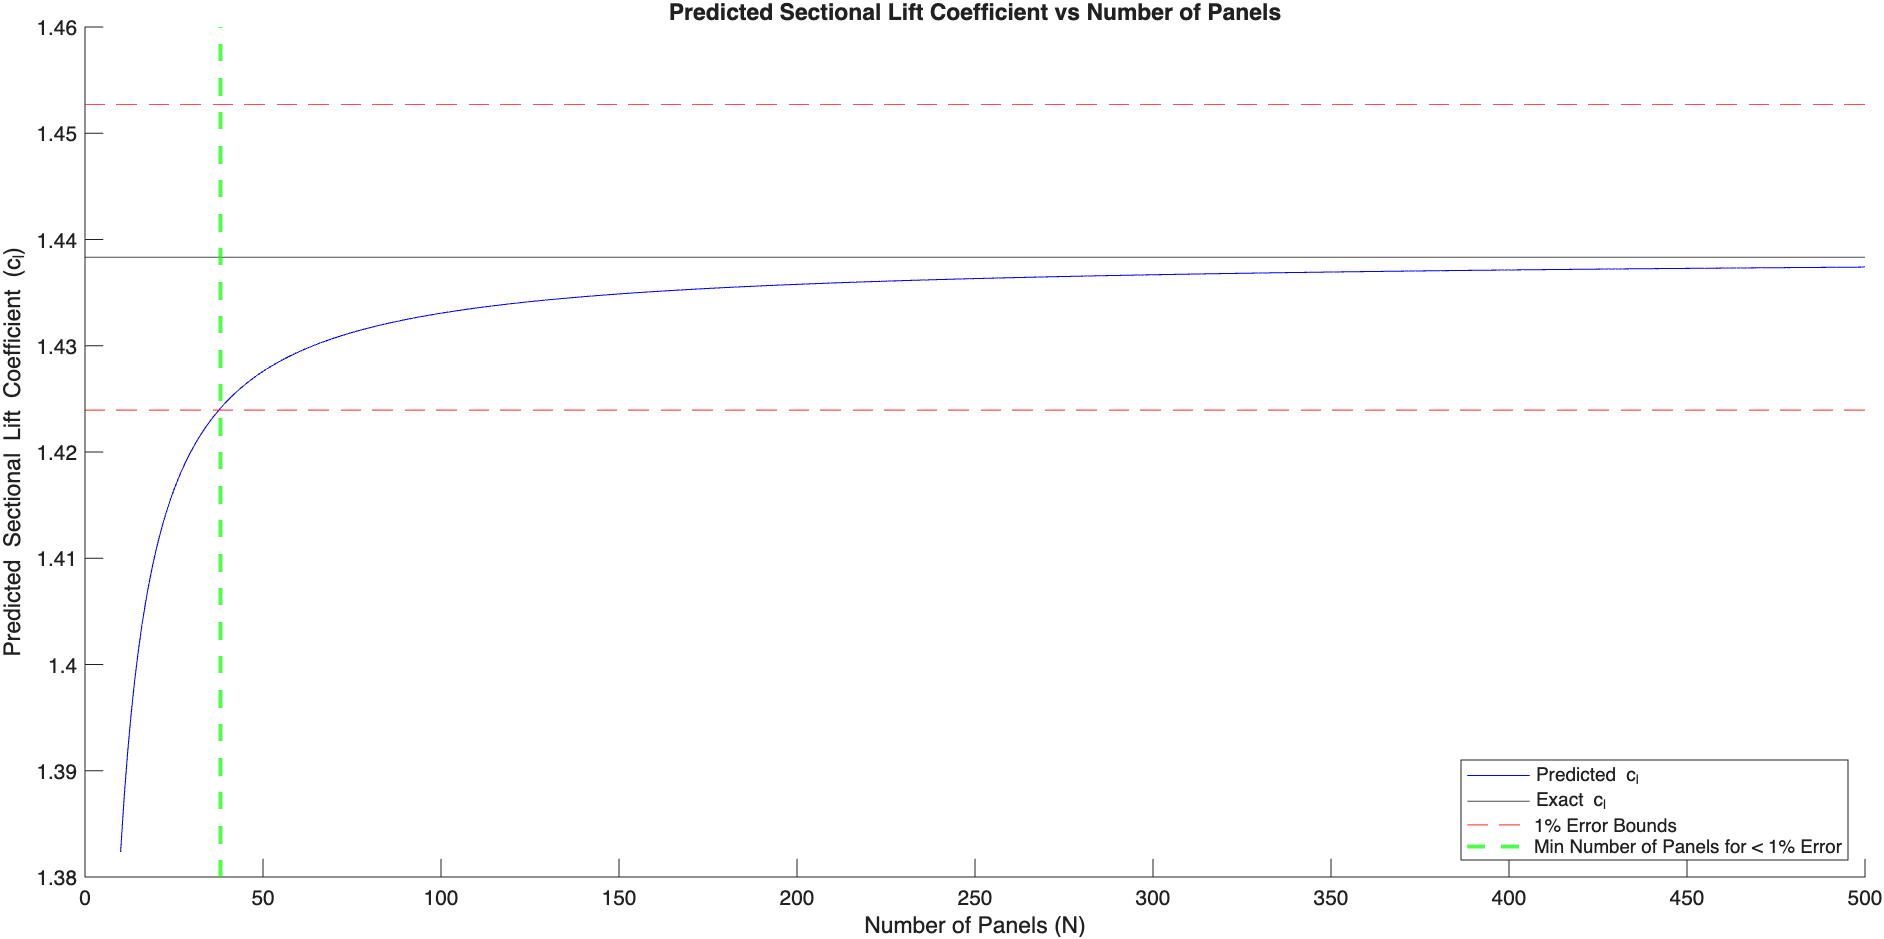
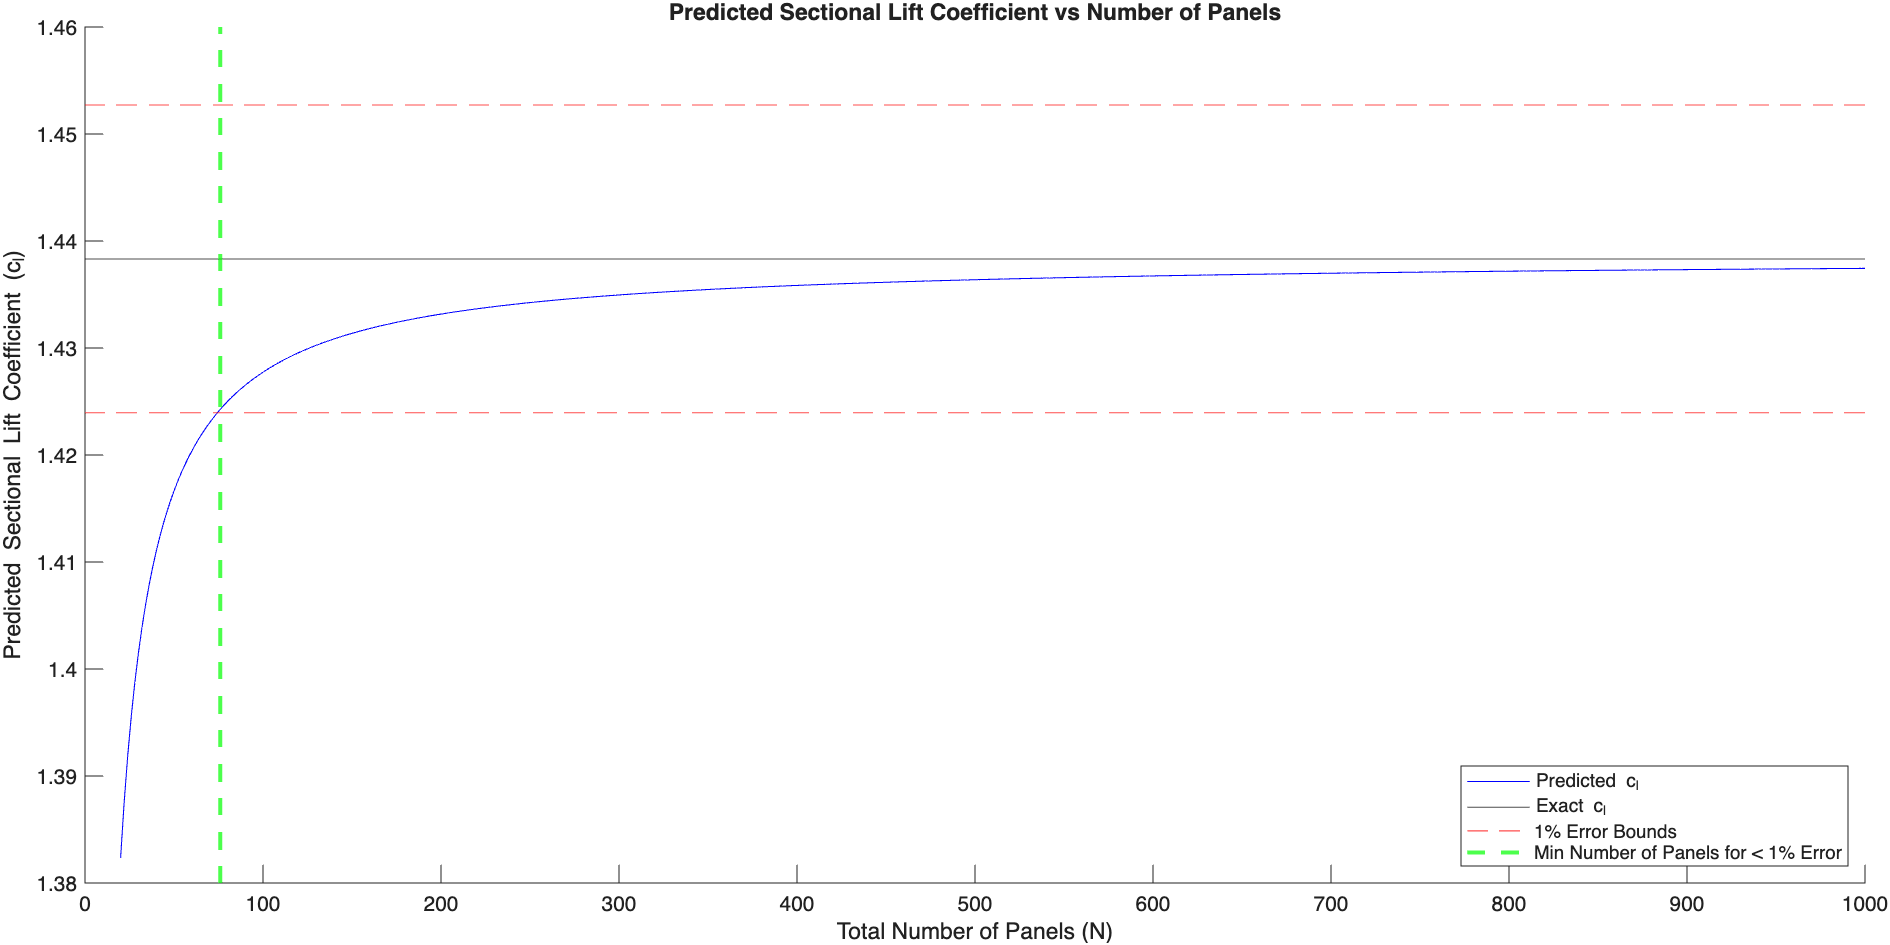
update

diff --git a/main.m b/main.m
@@ -149,12 +149,12 @@ end
 
 %% Task 2, Vortex Panel Method
 % Find cl of NACA 0012 at Alpha = 12 deg, Find N panels to converge to < 1% error
-p2plot = 0;
+p2plot = 1;
 if p2plot == 1
 % Input parameters for Vortex Panel
 airfoil3 = 'NACA_0012';
 c = 1;
-NumPanels = linspace(10,500,100);
+NumPanels = linspace(10,500,491);
 alpha = 12; % AoA, degrees
 [m,p,t] = extractAirfoilData(airfoil3);
 
@@ -170,23 +170,40 @@ end
 % exact_cl = Vortex_Panel(x_b,y_b,alpha);
 exact_cl = 1.438326093800802;
 
-[val, idx] = find(predicted_cl > 0.99*exact_cl,1,"first");
+% Percent Difference Formula, check if % diff < 1% error
+[val, idx] = find((abs(exact_cl-predicted_cl)./((exact_cl + predicted_cl)./2) .* 100) < 1,1,"first");
 
 % Plot of predicted cl vs number of panels used for calculation
 figure(); hold on;
-plot(NumPanels,predicted_cl,'b');
+plot(2*NumPanels,predicted_cl,'b');
 yline(exact_cl,'k');
 yline(1.01*exact_cl,'r--');
 yline(0.99*exact_cl,'r--');
-xline(NumPanels(idx),'g--',LineWidth=2);
-xlabel("Number of Panels (N)");
+xline(2*NumPanels(idx),'g--',LineWidth=2);
+xlabel("Total Number of Panels (N)");
 ylabel("Predicted Sectional Lift Coefficient (c_l)");
 title("Predicted Sectional Lift Coefficient vs Number of Panels");
 legend("Predicted c_l","Exact c_l","1% Error Bounds","","Min Number of Panels for < 1% Error",Location="southeast");
 
 % Print needed info to command window
 fprintf("Sectional Lift Coefficient (cl) for NACA 0012 at 12 degrees: %.3f \n", exact_cl);
-fprintf("Min Number of Panels Needed for < 1 Percent Error from Exact: %.1f \n",NumPanels(idx));
+fprintf("Min Number of Panels Needed for < 1 Percent Error from Exact: %.1f \n",2*NumPanels(idx));
+
+% Extracting Data For Table
+% Use 10, 50, 100, 200, 500 (Multiply by 2 for Total Panels)
+% Cl, Num Panels, Relative Error, Min Panels for Convergence (separate)
+Panels = [10, 50, 100, 200, 500];
+TotPanels = zeros(1,5);
+Cls = zeros(1,5);
+RelativeError = zeros(1,5);
+Names = ["Tot Panels","Cl","Relative Error"];
+for i = 1:5
+    idx = find(NumPanels == Panels(i),1,"first");
+    Cls(i) = predicted_cl(idx);
+    TotPanels(i) = Panels(i);
+    RelativeError(i) = (abs(exact_cl-Cls(i))/(exact_cl+Cls(i))/2) * 100; % Convert to %
+end
+T = table(2.*Panels',Cls',RelativeError','VariableNames',Names);
 end
 
 % Functions for Part 2
